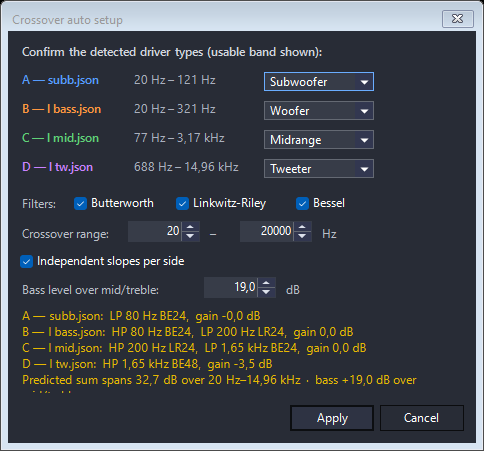
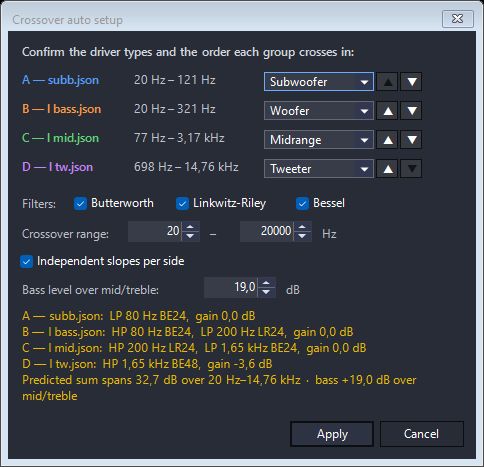
Level a group onto the group that carries the reference, and say which
Self-review of the pair above.

The group whose flat top the others are levelled onto was the first one
fitted only because the plan happened to list it first — the same implicit
ordering that has bitten this series before. It is now fitted first whatever
position it holds, and the preview names it rather than calling it the front
stage, which it is in every real car and need not be in a project that has
no front chain at all. A group of more than one driver said nothing about
having been levelled; only the lone-driver line did.

The preview's height was counted in lines, which is wrong the moment one
wraps — it is measured as laid out now, with the count as the floor. That was
already clipping the committed manual figure's last line before any of this.

Two edges in the standalone proposal: a low-pass at or under the protective
high-pass is silence rather than a band-pass, and the arrows of a group of
one are never parented by the table, so nothing was disposing them.

The figure is re-shot. Its numbers move a little for reasons that predate
this branch — the band read has shifted since the shot was taken at #129 —
and its last line now fits.

diff --git a/source/Tools/VirtualCrossover/VirtualCrossoverAutoSetupDialog.cs b/source/Tools/VirtualCrossover/VirtualCrossoverAutoSetupDialog.cs
@@ -1,4 +1,4 @@
-using System.Numerics;
+using System.Numerics;
 using Resonalyze.Dsp;
 
 namespace Resonalyze;
@@ -100,8 +100,22 @@ internal sealed partial class VirtualCrossoverAutoSetupDialog : Form
         buttonApply.Click += ApplyClick;
         WireOptionControls();
         // The designer file owns Dispose; the manually created tooltip is not in
-        // its components container, so release it here.
-        Disposed += (_, _) => toolTip.Dispose();
+        // its components container, so release it here. Neither is a row control
+        // that never reached the table — the arrows of a group of one, which have
+        // no order to change and so are never parented by anything that would
+        // dispose them.
+        Disposed += (_, _) =>
+        {
+            toolTip.Dispose();
+            foreach (Control control in rows.SelectMany(
+                         row => new Control[] { row.NameLabel, row.BandLabel,
+                             row.TypeComboBox, row.Up, row.Down })
+                     .Concat(groupHeaders.Values)
+                     .Where(control => control.Parent == null))
+            {
+                control.Dispose();
+            }
+        };
         toolTip.SetToolTip(
             labelPreview,
             "The proposal that Apply writes into the channels: crossover\r\n" +
@@ -408,10 +422,18 @@ internal sealed partial class VirtualCrossoverAutoSetupDialog : Form
         }
 
         // The preview shows one line per channel plus a heading and a summary for
-        // every group; size it to the real font line height so it fits at any DPI,
-        // then grow the client area to clear the bottom-anchored buttons.
-        labelPreview.Height =
-            PreviewLineCount() * labelPreview.Font.Height + LogicalToDeviceUnits(6);
+        // every group, and a summary long enough wraps onto a second line — so it
+        // is measured as laid out rather than counted, with the structural count
+        // as the floor. Both are in the real font's line height, so it fits at any
+        // DPI; then the client area grows to clear the bottom-anchored buttons.
+        labelPreview.Height = Math.Max(
+                PreviewLineCount() * labelPreview.Font.Height,
+                TextRenderer.MeasureText(
+                    labelPreview.Text,
+                    labelPreview.Font,
+                    new Size(labelPreview.Width, int.MaxValue),
+                    TextFormatFlags.WordBreak).Height)
+            + LogicalToDeviceUnits(6);
         ClientSize = new Size(
             ClientSize.Width,
             labelPreview.Bottom + LogicalToDeviceUnits(12) + buttonApply.Height
@@ -503,17 +525,23 @@ internal sealed partial class VirtualCrossoverAutoSetupDialog : Form
         return plan;
     }
 
-    // Fits every group and levels the later ones onto the primary's flat top.
+    // Fits every group and levels the others onto the primary's flat top.
     // Pure — no control is touched — so Apply can run it off the UI thread.
     private static List<GroupFit> Fit(
         IReadOnlyList<GroupPlan> plan,
         Func<bool, CrossoverAutoSetupOptions> options,
         double sampleRateHz)
     {
-        var fits = new List<GroupFit>();
+        var fitted = new IReadOnlyList<CrossoverProposal>[plan.Count];
         double? reference = null;
-        foreach (GroupPlan group in plan)
+        // The primary group is fitted FIRST whatever position the plan lists it
+        // in: the others are levelled onto its reference, and nothing can be
+        // levelled onto a fit that has not happened yet. The sort is stable, so
+        // the rest keep their order, and the result stays in plan order.
+        foreach (int index in Enumerable.Range(0, plan.Count)
+                     .OrderByDescending(index => plan[index].IsPrimary))
         {
+            GroupPlan group = plan[index];
             CrossoverAutoSetupOptions groupOptions = options(group.IsPrimary);
             IReadOnlyList<CrossoverProposal> proposals = group.Sources.Count == 1
                 ? [CrossoverAutoSetup.ProposeSingle(group.Sources[0], groupOptions)]
@@ -533,10 +561,10 @@ internal sealed partial class VirtualCrossoverAutoSetupDialog : Form
                     group.Sources, proposals, sampleRateHz, level);
             }
 
-            fits.Add(new GroupFit(group, proposals));
+            fitted[index] = proposals;
         }
 
-        return fits;
+        return plan.Select((group, index) => new GroupFit(group, fitted[index])).ToList();
     }
 
     // The fitted proposals scattered back into the order the channels came in.
@@ -629,6 +657,16 @@ internal sealed partial class VirtualCrossoverAutoSetupDialog : Form
     private IEnumerable<string> PreviewLines(IReadOnlyList<GroupFit> fits)
     {
         bool headers = fits.Count > 1;
+        // What the other groups were levelled onto. Usually the front chain, and
+        // then "the front stage" says it in fewer words than the group's own
+        // name; a project without one levels onto whichever group runs first, and
+        // that one has to be named.
+        VirtualCrossoverAlignmentStage primary =
+            fits.FirstOrDefault(fit => fit.Plan.IsPrimary)?.Plan.Group
+            ?? VirtualCrossoverAlignmentStage.FrontChain;
+        string anchor = primary == VirtualCrossoverAlignmentStage.FrontChain
+            ? "front stage"
+            : LowerFirst(VirtualCrossoverAlignmentStages.DisplayName(primary));
         foreach (GroupFit fit in fits)
         {
             if (headers)
@@ -643,23 +681,29 @@ internal sealed partial class VirtualCrossoverAutoSetupDialog : Form
                 yield return FormatProposal(row, fit.Proposals[i], headers);
             }
 
-            yield return FormatSummary(fit, headers);
+            yield return FormatSummary(fit, headers, anchor);
         }
     }
+
+    private static string LowerFirst(string text) =>
+        text.Length == 0 ? text : char.ToLowerInvariant(text[0]) + text[1..];
 
     // The span of the predicted summed response and the sub elevation applied —
     // with the target-curve gains the sum is an intentional downslope (bass
     // lifted), not a flat line, so this reports the span rather than a defect. A
     // group of one has no sum to speak of, so it says what it was levelled to
     // instead.
-    private string FormatSummary(GroupFit fit, bool indent)
+    private string FormatSummary(GroupFit fit, bool indent, string anchor)
     {
         string prefix = indent ? "   " : string.Empty;
+        string levelled = fit.Plan.IsPrimary
+            ? string.Empty
+            : $"  ·  levelled to the {anchor}";
         if (fit.Plan.Sources.Count == 1)
         {
             return prefix + (fit.Plan.IsPrimary
                 ? "One driver, so nothing to cross: a protective high-pass only."
-                : "Levelled to the front stage — set the balance by ear from there.");
+                : $"Protective high-pass, levelled to the {anchor} — balance by ear.");
         }
 
         IReadOnlyList<AutoSetupSource> sources = fit.Plan.Sources;
@@ -679,7 +723,7 @@ internal sealed partial class VirtualCrossoverAutoSetupDialog : Form
             ? $"  ·  bass +{(double)subElevation.Value:0.0} dB over mid/treble"
             : string.Empty;
         return $"{prefix}Predicted sum spans {span:0.0} dB over " +
-            $"{FormatHz(low.LowHz)}–{FormatHz(high.HighHz)}{elevation}";
+            $"{FormatHz(low.LowHz)}–{FormatHz(high.HighHz)}{elevation}{levelled}";
     }
 
     private static string FormatProposal(ChannelRow row, CrossoverProposal proposal, bool indent)

diff --git a/dsp/CrossoverAutoSetup.cs b/dsp/CrossoverAutoSetup.cs
@@ -1,4 +1,4 @@
-using System.Collections.Concurrent;
+using System.Collections.Concurrent;
 using System.Numerics;
 
 namespace Resonalyze.Dsp;
@@ -990,9 +990,11 @@ public static class CrossoverAutoSetup
     }
 
     /// <summary>
-    /// The level (dB) the given chain's flat top was fitted to — the quietest
-    /// non-subwoofer driver over its own passband. It is the one number another
-    /// group can be levelled against; see <see cref="OffsetToReferenceLevel"/>.
+    /// The level (dB) the given chain's flat top was fitted to: the quietest
+    /// driver that is not a subwoofer, measured over its own passband (or simply
+    /// the quietest, in a chain that is nothing but subwoofers). It is the one
+    /// number another group can be levelled against; see
+    /// <see cref="OffsetToReferenceLevel"/>.
     /// </summary>
     public static double ReferenceLevelDb(
         IReadOnlyList<AutoSetupSource> channels,
@@ -1115,13 +1117,19 @@ public static class CrossoverAutoSetup
         var highPass = new CrossoverEdge(family, Math.Round(corner), slope);
 
         // The same brickwall the chain's topmost driver gets when the user pulls
-        // the window in below where it still plays.
-        CrossoverEdge? lowPass = options.MaxCrossoverHz < band.HighHz / Math.Pow(2.0, 1.0 / 12.0)
-            ? new CrossoverEdge(
-                family,
-                Math.Round(options.MaxCrossoverHz),
-                ProtectiveSlope(family, options.MaxCrossoverHz, options.ProcessorSampleRateHz))
-            : null;
+        // the window in below where it still plays — but only where it leaves the
+        // driver something to play: a low-pass at or under the protective
+        // high-pass is not a band-pass, it is silence, and nobody asks a window
+        // for silence.
+        CrossoverEdge? lowPass =
+            options.MaxCrossoverHz < band.HighHz / Math.Pow(2.0, 1.0 / 12.0) &&
+            options.MaxCrossoverHz > corner
+                ? new CrossoverEdge(
+                    family,
+                    Math.Round(options.MaxCrossoverHz),
+                    ProtectiveSlope(
+                        family, options.MaxCrossoverHz, options.ProcessorSampleRateHz))
+                : null;
 
         return new CrossoverProposal(
             lowPass is null ? CrossoverKind.HighPass : CrossoverKind.BandPass,
